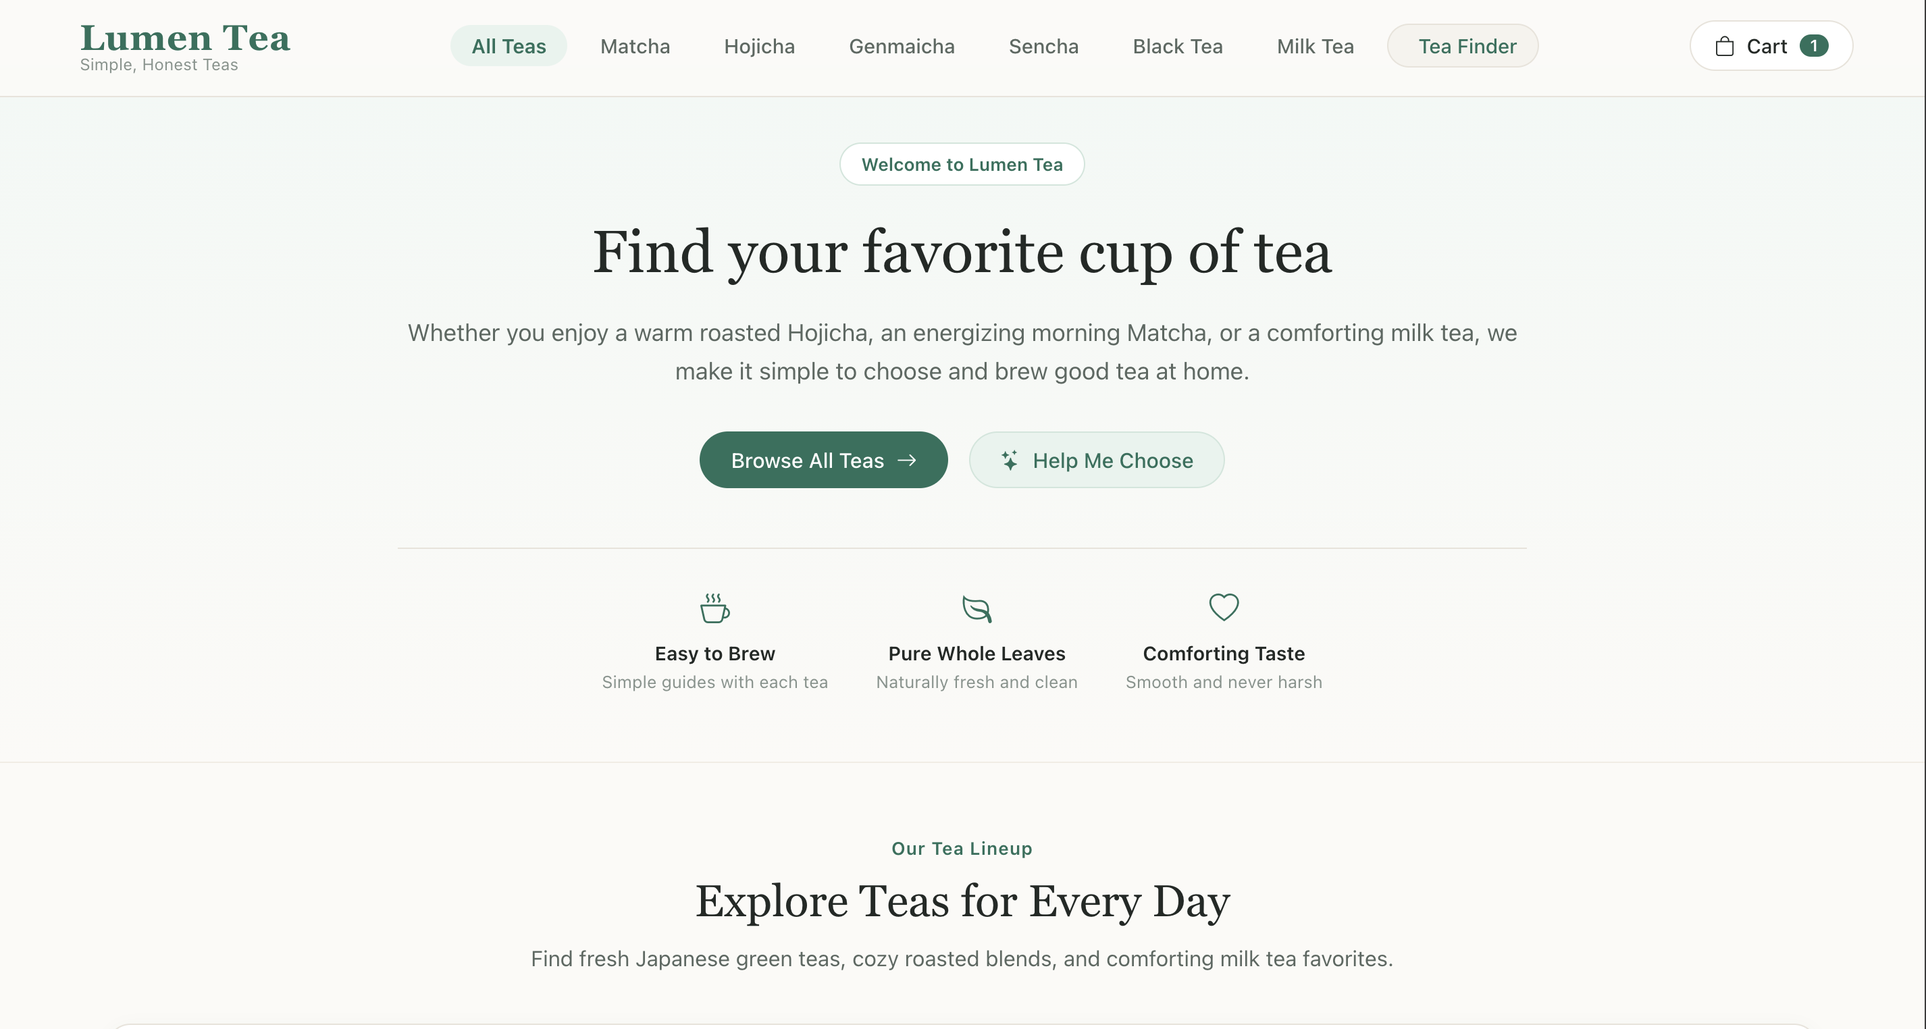
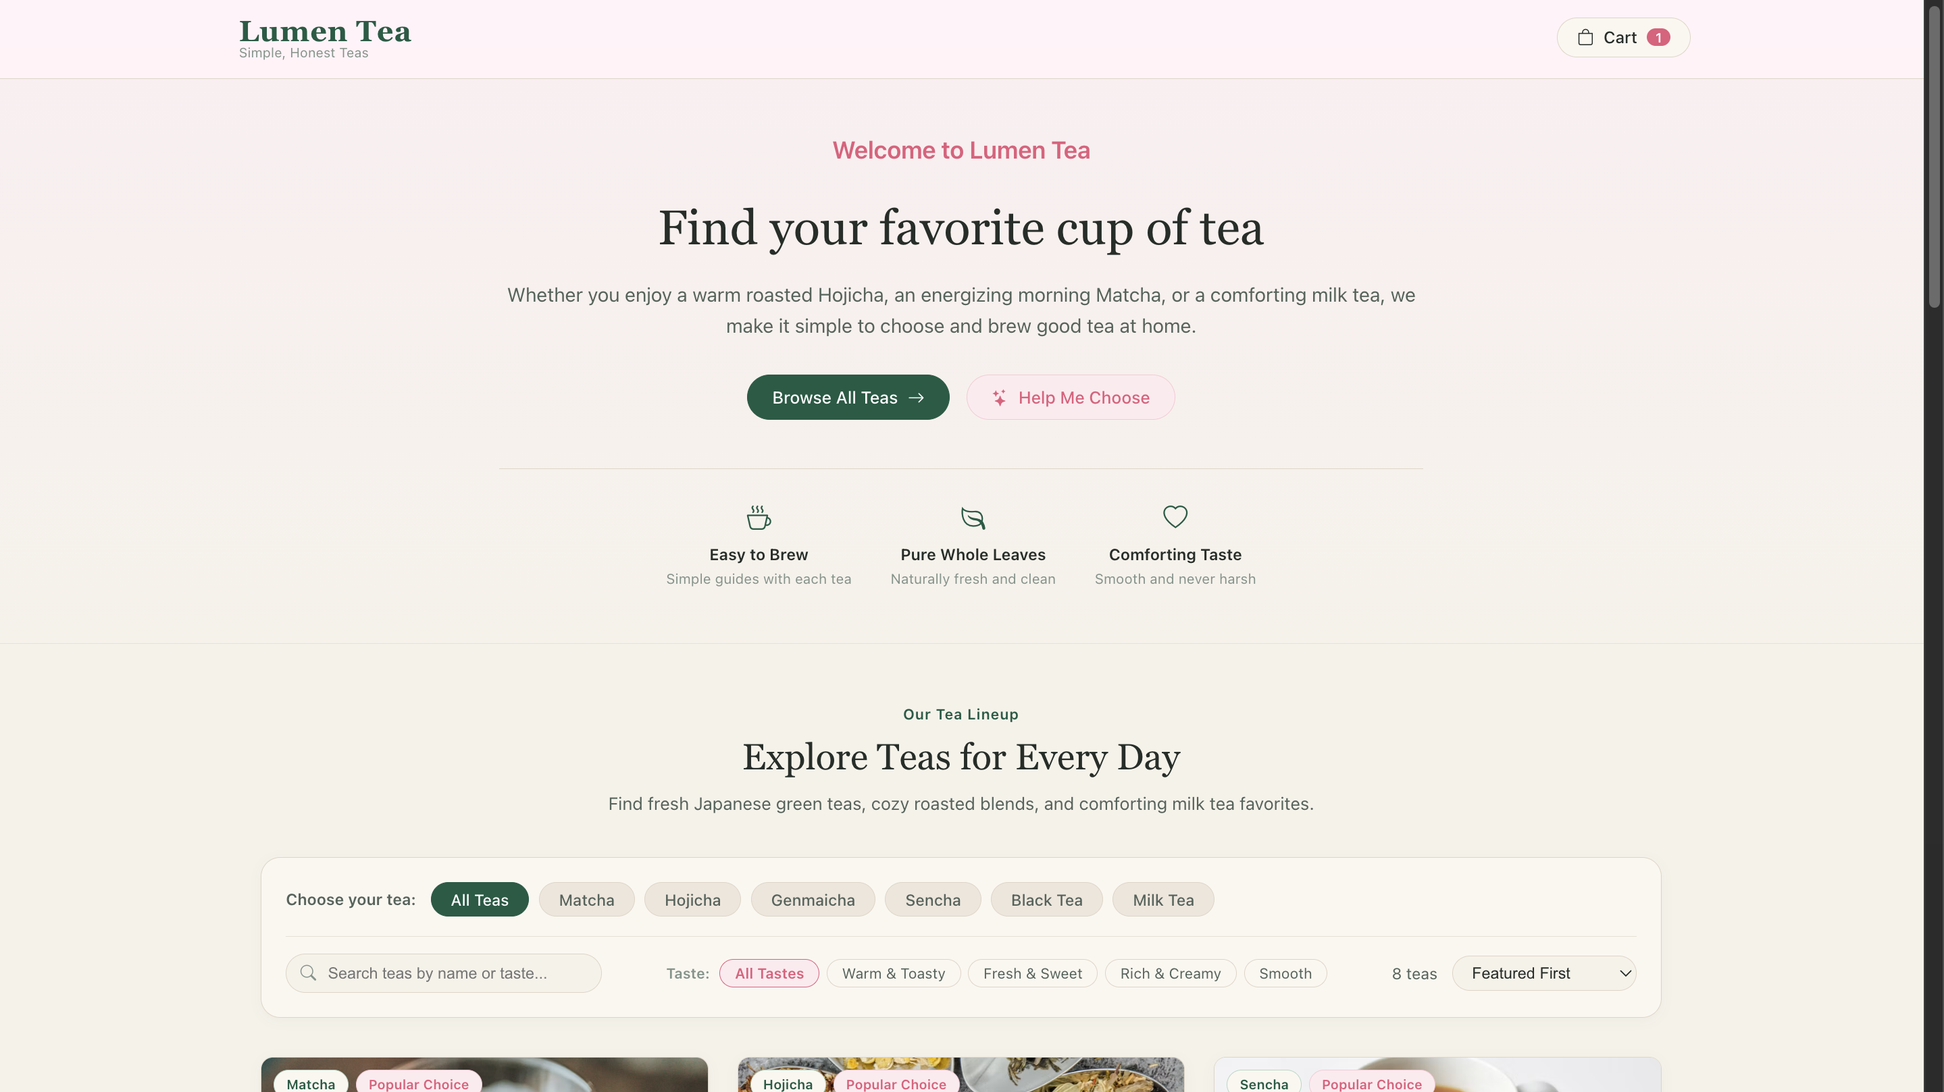
feat: update projects, tech stack heading alignment, and resume button outline

diff --git a/src/pages/Projects.tsx b/src/pages/Projects.tsx
@@ -151,6 +151,7 @@ const DEV_ICONS: Record<string, string> = {
   Expo: "expo/expo-original",
   "Expo Router": "expo/expo-original",
   "Expo Notifications": "expo/expo-original",
+  "Expo Haptics": "expo/expo-original",
   "shadcn/ui": "react/react-original",
   "Recharts/Chart.js": "chartjs/chartjs-plain",
   "Chart.js": "chartjs/chartjs-plain",
@@ -159,6 +160,14 @@ const DEV_ICONS: Record<string, string> = {
   "Node.js or ASP.NET Core": "nodejs/nodejs-original",
   "Express.js or ASP.NET Core Web API": "express/express-original",
   "Prisma ORM or Entity Framework Core": "prisma/prisma-original",
+  ".NET": "dotnetcore/dotnetcore-original",
+  Postman: "postman/postman-original",
+  "Microsoft SQL Server": "microsoftsqlserver/microsoftsqlserver-plain",
+  Vercel: "vercel/vercel-original",
+  PGlite: "postgresql/postgresql-original",
+  "Drizzle ORM": "drizzle/drizzle-original",
+  Zustand: "react/react-original",
+  CodeMirror: "vscode/vscode-original",
 }
 
 export type Project = {
@@ -191,50 +200,50 @@ export const projects: Project[] = [
     name: "Caytori",
     image: assetUrl("projects/caytori.png"),
     github: "https://github.com/Alicia-Kate-Bactasa/Caytori",
-    tagline: "Multi-Company IT Support & Ticketing Platform",
-    desc: "Caytori is a multi-company web application designed to centralize and streamline IT support workflows. Instead of employees reporting technical problems through scattered emails, messaging applications, and verbal requests, Caytori provides a structured ticketing system where issues can be submitted, prioritized, assigned, tracked, and resolved.\n\nThe platform supports separate company workspaces while giving IT teams and administrators the tools to monitor ticket activity and support performance. Analytics can provide insights into ticket volume, resolution times, recurring technical issues, and overall IT service efficiency.",
+    tagline: "IT Services Ticketing & Support Management Platform",
+    desc: "Caytori is a multi-company web application designed to centralize and streamline IT support workflows. In many organizations, employees report technical issues through scattered channels such as personal messages, emails, chat apps, or verbal requests. This informal approach causes support teams to lose track of ticket owners, severity levels, resolution times, and recurring equipment faults.\n\nCaytori replaces scattered communication with a structured support workflow: employees report issues with department context, IT support receives and assigns tickets in a centralized queue, technicians resolve or escalate issues across defined tiers, and employees verify resolution before closure.\n\nThe platform is built to support organizations of all sizes, from small companies with a single IT technician to enterprises with multi-tier IT support structures and multiple departments.",
     features:
-      "Multi-company workspaces · Ticket creation and tracking · Priority and status management · IT personnel assignment · Comments and activity history · File attachments · Role-based access · Ticket analytics · Resolution time tracking · Search and filtering · Audit logs",
+      "Multi-Tenant Architecture · Role-Based Access Control · Queue and Dispatch Management · Tiered Escalation Matrix · Employee Verification Gate · Reopen Policy Enforcement · Live Notifications · Comprehensive Reports and Analytics · Clean Neumorphic Interface",
     integrations:
-      "AI API for ticket classification, summarization, or troubleshooting suggestions · Email API for notifications · Cloud storage for attachments",
-    tech: "React · Vite · TypeScript · Tailwind CSS · shadcn/ui · ASP.NET Core Web API · C# · Entity Framework Core · PostgreSQL · Supabase or cloud storage · REST API · JWT Authentication · Recharts/Chart.js",
+      "Postman API Collection · OpenAPI 3.0 Specification · Planned Neon Integration · Planned Resend Email Service",
+    tech: "React · TypeScript · Vite · Tailwind CSS · .NET · C# · ASP.NET Core · Entity Framework Core · REST API · PostgreSQL · Neon · Recharts · Postman",
   },
   {
-    name: "AbyssalFlow",
+    name: "Abyssal Flow",
     image: assetUrl("projects/AbyssalFlow.png"),
     github: "https://github.com/Alicia-Kate-Bactasa/Abyssal-Flow",
-    tagline: "Immersive Menstrual Cycle Tracking Mobile Application",
-    desc: "AbyssalFlow is a mobile application that reimagines traditional menstrual cycle tracking through an immersive ocean-inspired experience. Rather than presenting cycle information through a purely clinical interface, the application uses changing tides, underwater environments, and dynamic visual states to represent different phases of the menstrual cycle.\n\nUsers can track their cycle, symptoms, moods, and personal patterns while receiving predictions and reminders. The visual environment can adapt based on the user's current cycle phase, creating a more personal and engaging approach to health tracking.",
+    tagline: "Ocean-Themed Mobile Period & Menstrual Cycle Tracker",
+    desc: "Traditional period trackers can often feel clinical, rigid, or overwhelming. Abyssal Flow transforms health tracking into a serene, mindful experience by simulating ocean tide states and underwater visual atmospheres that adapt dynamically to the phases of your menstrual cycle.\n\nThe main dashboard visually shifts colors, gradients, and wave animations to reflect current cycle phases in real time—from the deep navy tones of the Menstrual Phase to the bright turquoise waters of Ovulation. Users can log cycle dates, track physical symptoms and moods, view monthly calendar forecasts, and analyze historical cycle patterns through cosmic charts and oceanic statistics.",
     features:
-      "Cycle tracking and prediction · Period logging · Symptom tracking · Mood logging · Dynamic ocean-inspired environments · Phase-based visual changes · Historical cycle data · Personalized insights · Cycle reminders · Secure cloud synchronization",
+      "Dynamic Ocean State UI · Cycle Prediction & Tracking · Full CRUD Log Management · Deep Pattern Analytics · Cloud Synchronization · Mindful & Stress-Free Design · Mood & Symptom Tracking · Tide Tracker Calendar",
     integrations:
-      "Push notification services · Calendar integration · Optional AI-powered summaries and insights",
-    tech: "React Native · TypeScript · Expo · Expo Router · Supabase · PostgreSQL · Supabase Auth · Supabase Storage · Expo Notifications · Zustand or React Context · React Native Reanimated · Lottie",
+      "Supabase Auth & PostgreSQL · Supabase Row Level Security · Supabase Storage · AsyncStorage & Expo SecureStore · Expo Haptics & Device Utilities",
+    tech: "React Native · TypeScript · Expo · Expo Router · Supabase · PostgreSQL · React Native Reanimated · Expo Haptics",
   },
   {
     name: "Noir Detailing",
     image: assetUrl("projects/NoirDetailing.png"),
     live: "https://montage-studio.dcism.org/",
     github: "https://github.com/Alicia-Kate-Bactasa/Carwash-Booking-System",
-    tagline: "Carwash Booking & Subscription Management System",
-    desc: "Noir Detailing is a carwash booking and management platform that supports both one-time service appointments and subscription-based memberships. Customers can select detailing services, register their vehicles, choose available schedules, and manage bookings through a centralized system.\n\nThe platform also helps administrators manage appointment schedules, service capacity, customer records, subscriptions, and booking activity. Business rules such as available operating hours, bay allocation, and booking limits can be integrated into the scheduling system to prevent overbooking.",
+    tagline: "Auto Detailing Reservation & VIP Membership Platform",
+    desc: "Noir Detailing is a full-stack auto detailing reservation and VIP membership subscription web application built with an Express.js backend and Vue.js 3 frontend, powered by Prisma ORM and Neon PostgreSQL database integration.\n\nThe platform offers structured auto detailing scheduling and membership management with distinct workflows: a Guest Booking Wizard for walk-ins to browse active packages, select service durations, and check studio bay availability in real time; a VIP Subscriber Hub enabling members to book complimentary detailing sessions with 0 PHP per-session transaction invoices and manage billing cycles; an Admin Management Control panel for package CRUD, walk-in management, and analytics; and an automated HTML email service for transaction invoicing and appointment notifications.",
     features:
-      "One-time and subscription bookings · Vehicle management · Service selection · Appointment scheduling · Availability checking · Bay allocation · Capacity management · Booking history · Subscription tracking · Administrative dashboard · Payment verification · Booking notifications",
+      "Guest Booking Wizard · VIP Subscriber Hub · Real-Time Bay Availability · Service Package CRUD · 0 PHP Member Booking Checkout · Walk-In Booking Management · Transaction Invoicing & Billing · Customer Feedback Analytics · Appointment Rescheduling & Cancellation · Automated HTML Email Service",
     integrations:
-      "Payment integration · Email confirmation services · Notification and appointment reminders",
-    tech: "Vue.js · Node.js · Express.js · Prisma ORM · Neon · PostgreSQL · REST API · JWT or secure session authentication · Nodemailer/Email API · paymongo",
+      "PayMongo Payment Gateway · Nodemailer & Transactional Email · Neon Serverless PostgreSQL · Prisma ORM · REST API",
+    tech: "Vue.js · Vite · JavaScript · Tailwind CSS · Node.js · Express.js · Prisma ORM · PostgreSQL · Neon",
   },
   {
     name: "Lumen",
     image: assetUrl("projects/lumen.png"),
     github: "https://github.com/Alicia-Kate-Bactasa/Lumen",
-    tagline: "Matcha & Hojicha E-Commerce Platform",
-    desc: "Lumen is a specialty tea e-commerce platform offering matcha, hojicha powders, tea accessories, and branded merchandise. Customers can browse products, compare flavor profiles and grades, manage their cart, and place orders through a streamlined online storefront.\n\nBeyond traditional e-commerce, Lumen features a tea preference quiz that recommends products based on predefined preferences such as flavor, intensity, preparation method, and experience level. The platform also provides product information and preparation guides to help customers better understand and enjoy their tea.",
+    tagline: "Specialty Tea & Ceremonial Matcha Storefront",
+    desc: "Lumen is a modern specialty tea and ceremonial matcha e-commerce web application. Designed for both tea lovers and beginners, Lumen offers curated artisanal teas—ceremonial matcha, roasted hojicha, genmaicha, sencha, black tea, and milk tea blends—paired with transparent brewing guides, taste meters, and an offline-resilient architecture.\n\nThe application connects a responsive React 19 storefront built with Vite to an ASP.NET Core 10 Web API and containerized Microsoft SQL Server / Azure SQL Edge database via Docker. The client features instant text search, multi-criteria flavor and caffeine filtering, product detail modals with steeping instructions, and a slide-out cart drawer with free-shipping tracking, supported by automatic client-side catalog fallbacks.",
     features:
-      "Product catalog · Matcha & hojicha products · Product variants · Flavor and origin profiles · Tea preference quiz · Rule-based recommendations · Shopping cart · Wishlist · Checkout · Customer accounts · Order tracking · Inventory management · Product reviews · Discount codes · Tea preparation guides · Sales analytics",
+      "Curated Tea Catalog & Search · Multi-Criteria Taste & Category Filtering · Interactive Brewing Guides & Taste Meters · Slide-out Cart Drawer · RESTful Product Management API · Containerized Database Setup · Offline Resilience Fallback · Order Summary & Shipping Tracker",
     integrations:
-      "Payment API · Google OAuth · Email/notification services · Shipping and tracking API · Cloud storage for product images · Maps API for store locations",
-    tech: "Next.js · TypeScript · Tailwind CSS · shadcn/ui · Node.js · PostgreSQL · Prisma ORM · Supabase · REST API · PayMongo/Stripe · Supabase Storage · Recharts/Chart.js",
+      "Entity Framework Core 10 · Docker & Azure SQL Edge · OpenAPI Specification · Planned Google Gemini AI Tea Sommelier · Reverse Proxy API Gateway",
+    tech: "React · TypeScript · Vite · ASP.NET Core · C# · Entity Framework Core · Microsoft SQL Server · Docker · REST API",
   },
   {
     name: "DriveGo",
@@ -242,24 +251,24 @@ export const projects: Project[] = [
     live: "https://drivego-hub.vercel.app",
     github: "https://github.com/Alicia-Kate-Bactasa/DriveGo",
     tagline: "Centralized Donation Drive Discovery Platform",
-    desc: "DriveGo is a centralized platform designed to make donation drives easier to discover, access, and manage. Instead of campaigns being scattered across different social media platforms, messaging applications, and organization pages, DriveGo provides a single system where organizations can publish and manage donation campaigns. Users can explore active donation drives, view campaign details and accepted donation requirements, discover nearby initiatives, and follow updates from organizers. The platform can also provide campaign statistics and progress tracking to make donation efforts more transparent and accessible.",
+    desc: "DriveGo is a centralized platform where organizations and organizers publish donation drives, and donors discover, verify, and support causes. DriveGo connects communities with verified donation campaigns by organizing drives across categories, providing community veracity fact-checking, accepted item tracking, campaign updates, and direct links to official campaign posts.\n\nRather than campaigns being scattered across disjointed social media groups and messaging channels, DriveGo provides a single trusted hub. Donors can explore active drives filtered by category, urgency, status, and location, while community members protect donors against fraud through crowdsourced veracity voting and administrative badges.",
     features:
-      "Centralized donation drive directory · Campaign creation and management · Categories and filtering · Search functionality · Location-based discovery · Donation requirements · Campaign deadlines · Progress tracking · Organization profiles · Campaign updates · Saved campaigns · Administrative moderation",
+      "Centralized Drive Directory · Official Campaign Post Links · Community Veracity Fact-Checking · Crowdsourced True/False Voting · Accepted Items Checklist & Urgency · Organizer Dashboard · Admin Moderation Portal · Saved Drives & Following · Secure Authentication",
     integrations:
-      "Maps API for locating donation centers · Payment integration for monetary donations · Notification services · Cloud storage for campaign images and documents",
-    tech: "Vue.js · TypeScript · Vite · Tailwind CSS · Pinia · Vue Router · Node.js · Express.js or ASP.NET Core Web API · PostgreSQL · Prisma ORM or Entity Framework Core · REST API · Cloud storage · Mapbox/Google Maps API",
+      "Supabase Auth & Session Management · Supabase PostgreSQL · Prisma ORM · Vercel Cloud Deployment",
+    tech: "Next.js · React · TypeScript · Tailwind CSS · Supabase · Prisma ORM · PostgreSQL · Vercel",
   },
   {
-    name: "Exec-Space",
+    name: "ExecSpace",
     image: assetUrl("projects/exec-space.png"),
     github: "https://github.com/Alicia-Kate-Bactasa/Exec-Space",
-    tagline: "Browser-Based Multi-Language Code Execution Environment",
-    desc: "Exec-Space is a browser-based coding environment that allows users to write, compile, and execute programs directly from their browser. The platform supports multiple programming languages, such as C, C++, and JavaScript, allowing users to experiment with code without configuring a local development environment.\n\nUsers can select a language, write code using an interactive editor, provide standard input, execute their program, and view output or compiler errors. The system can also support saved projects and execution history, making it useful as both a coding workspace and learning environment.",
+    tagline: "Minimalist Database Investigation Playground for Students",
+    desc: "ExecSpace is an interactive learning platform that teaches database problem-solving through real-world business scenarios. Instead of practicing isolated SQL syntax drills, students step into the role of a data investigator to uncover the root causes behind messy data problems—such as revenue discrepancies, broken loyalty tiers, duplicate transactions, and mismatched inventory ledgers.\n\nThe platform runs a complete PostgreSQL database engine directly inside the browser using PGlite and WebAssembly. This allows students to execute complex SQL queries (including joins, aggregates, CTEs, and window functions) instantly without installing software or connecting to external servers.",
     features:
-      "Multi-language code execution · Interactive built-in code editor · Syntax highlighting · Standard input and output · Compiler and runtime error display · Language switching · Execution history · Saved code projects · Resource and execution limits · Shareable code snippets",
+      "In-Browser PostgreSQL Engine · Database Explorer · SQL Workspace & Keyboard Shortcuts · Query Results & Dynamic Charts · Evidence Board · Case Finding & Verification · Investigation Notes Scratchpad · User Profile & Progression Tracking",
     integrations:
-      "Code execution API · Authentication · Cloud storage · WebSockets for future real-time collaboration",
-    tech: "React · Vite · TypeScript · Tailwind CSS · Monaco Editor · Node.js or ASP.NET Core · PostgreSQL · Docker · Judge0 API · REST API · WebSockets/Socket.IO · JWT Authentication",
+      "PGlite (ElectricSQL WebAssembly) · CodeMirror 6 SQL Editor · Recharts Dynamic Visualizations · IndexedDB Client Storage · Drizzle ORM",
+    tech: "React · TypeScript · Vite · Tailwind CSS · Node.js · Express.js · PostgreSQL · PGlite · Drizzle ORM · CodeMirror · Zustand · Recharts",
   },
   {
     name: "GetHired",

diff --git a/src/pages/About.tsx b/src/pages/About.tsx
@@ -827,8 +827,13 @@ export default function About() {
         data-name="Resume"
       >
         <p
-          className="-translate-x-1/2 [word-break:break-word] absolute font-['Poppins:Medium'] h-[42.233px] leading-[15px] left-[1376.5px] not-italic text-[15px] text-center text-white top-[949.77px] tracking-[0.75px] w-[149px] transition-colors duration-300 group-hover:text-[#ff1607] [-webkit-text-stroke:1px_black] [paint-order:stroke]"
-          style={{ WebkitTextStroke: "1px black" }}
+          className="-translate-x-1/2 [word-break:break-word] absolute font-['Poppins:Bold'] h-[42.233px] leading-[16px] left-[1376.5px] not-italic text-[16px] text-center text-white top-[949.77px] tracking-[0.75px] w-[160px] transition-colors duration-300 group-hover:text-[#ff1607]"
+          style={{
+            WebkitTextStroke: "3px black",
+            paintOrder: "stroke fill",
+            textShadow:
+              "-1px -1px 0 #000, 1px -1px 0 #000, -1px 1px 0 #000, 1px 1px 0 #000, 0 1px 3px rgba(0,0,0,0.7)",
+          }}
           data-node-id="1:45533"
         >
           View Alicia’s Resume

diff --git a/src/mobile/ProjectsM.tsx b/src/mobile/ProjectsM.tsx
@@ -28,8 +28,22 @@ const icons: Record<string, string> = {
   Supabase: "supabase/supabase-original",
   "Supabase Auth": "supabase/supabase-original",
   "ASP.NET Core Web API": "dotnetcore/dotnetcore-original",
+  "ASP.NET Core": "dotnetcore/dotnetcore-original",
+  ".NET": "dotnetcore/dotnetcore-original",
   "Entity Framework Core": "dotnetcore/dotnetcore-original",
+  Postman: "postman/postman-original",
   "Vue Router": "vuejs/vuejs-original",
+  Expo: "expo/expo-original",
+  "Expo Router": "expo/expo-original",
+  "Expo Haptics": "expo/expo-original",
+  "React Native Reanimated": "react/react-original",
+  JavaScript: "javascript/javascript-original",
+  "Microsoft SQL Server": "microsoftsqlserver/microsoftsqlserver-plain",
+  Vercel: "vercel/vercel-original",
+  PGlite: "postgresql/postgresql-original",
+  "Drizzle ORM": "drizzle/drizzle-original",
+  Zustand: "react/react-original",
+  CodeMirror: "vscode/vscode-original",
 }
 
 const font = "font-['Pixelify_Sans:Regular']"

diff --git a/src/pages/TechStack.tsx b/src/pages/TechStack.tsx
@@ -705,7 +705,7 @@ export default function TechStack() {
         />
       </div>
       <div
-        className="absolute flex h-[96.865px] items-center justify-center left-[-122px] top-[189px] w-[566.199px]"
+        className="absolute flex h-[96.865px] items-center justify-start left-[24px] top-[189px] w-[566.199px]"
         data-node-id="1:45665"
       >
         <div className="flex-none rotate-[0.29deg]">
